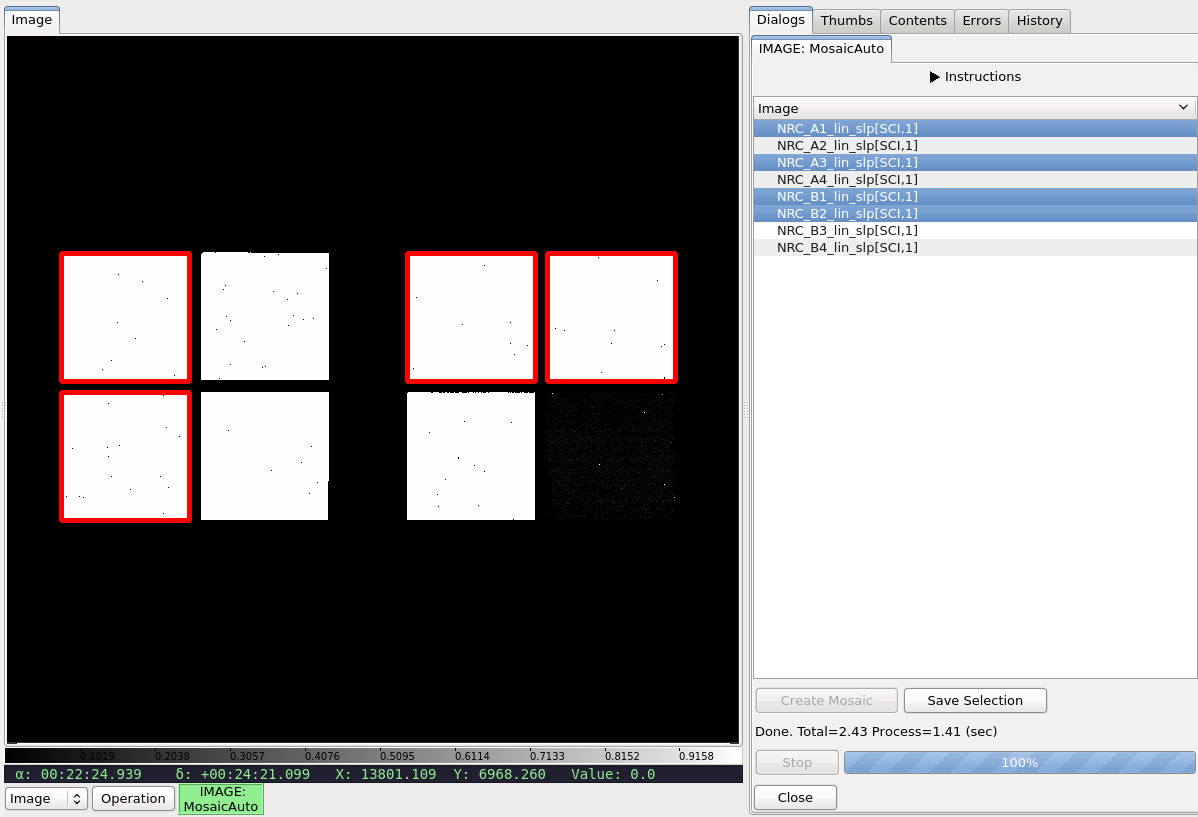
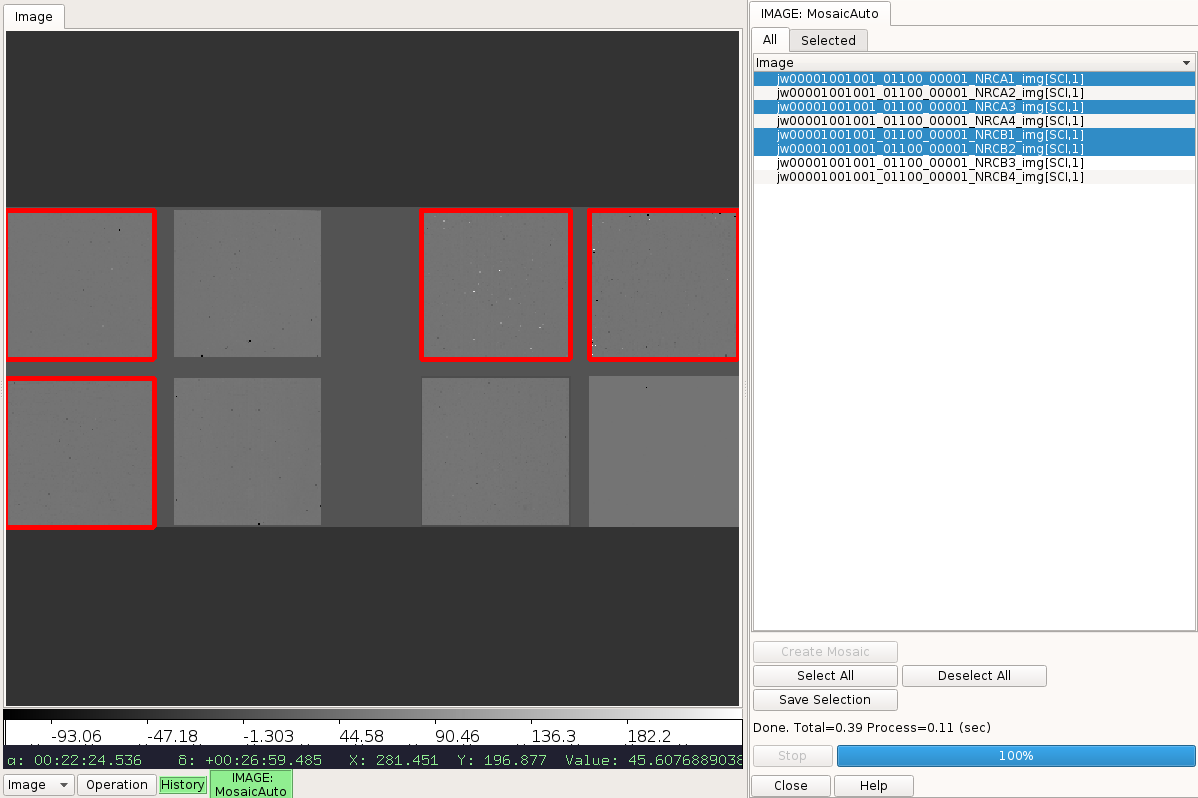
Updated MosaicAuto doc. Minor MosaicAuto GUI fix.

diff --git a/stginga/plugins/MosaicAuto.py b/stginga/plugins/MosaicAuto.py
@@ -177,6 +177,9 @@ class MosaicAuto(HelpMixin, Mosaic):
         # gets confusing.
         self.w.create_mosaic.set_enabled(False)
 
+        self.w.select_all.set_enabled(True)
+        self.w.deselect_all.set_enabled(True)
+
         # Populate table listing.
         treedict = Bunch.caselessDict()
         for imname in self._imlist:

diff --git a/docs/stginga/plugins_manual/mosaicauto.rst b/docs/stginga/plugins_manual/mosaicauto.rst
@@ -18,8 +18,14 @@ replacement. Currently, such a mosaic can only be created once per Ginga
 session.
 
 Once the mosaic is successfully created, user can select the desired
-image name(s) to highlight associated footprint(s) on the mosaic. User can also
-save an image list of the selected image(s). Optionally, the mosaic itself can
-be saved using :ref:`ginga:sec-plugins-global-saveimage`.
+image name(s) to highlight associated footprint(s) on the mosaic.
+Alternately, user can also click directly on the displayed mosaic to
+highlight a footprint; Clicking on a highlighted footprint again will
+un-highlight it.
+
+A shortlist of only the selected image names are displayed under the "Selected"
+tab. This list can be saved to a file by clicking "Save Selection" button.
+Optionally, the mosaic itself can be saved using
+:ref:`ginga:sec-plugins-global-saveimage`.
 
 .. automodule:: stginga.plugins.MosaicAuto
